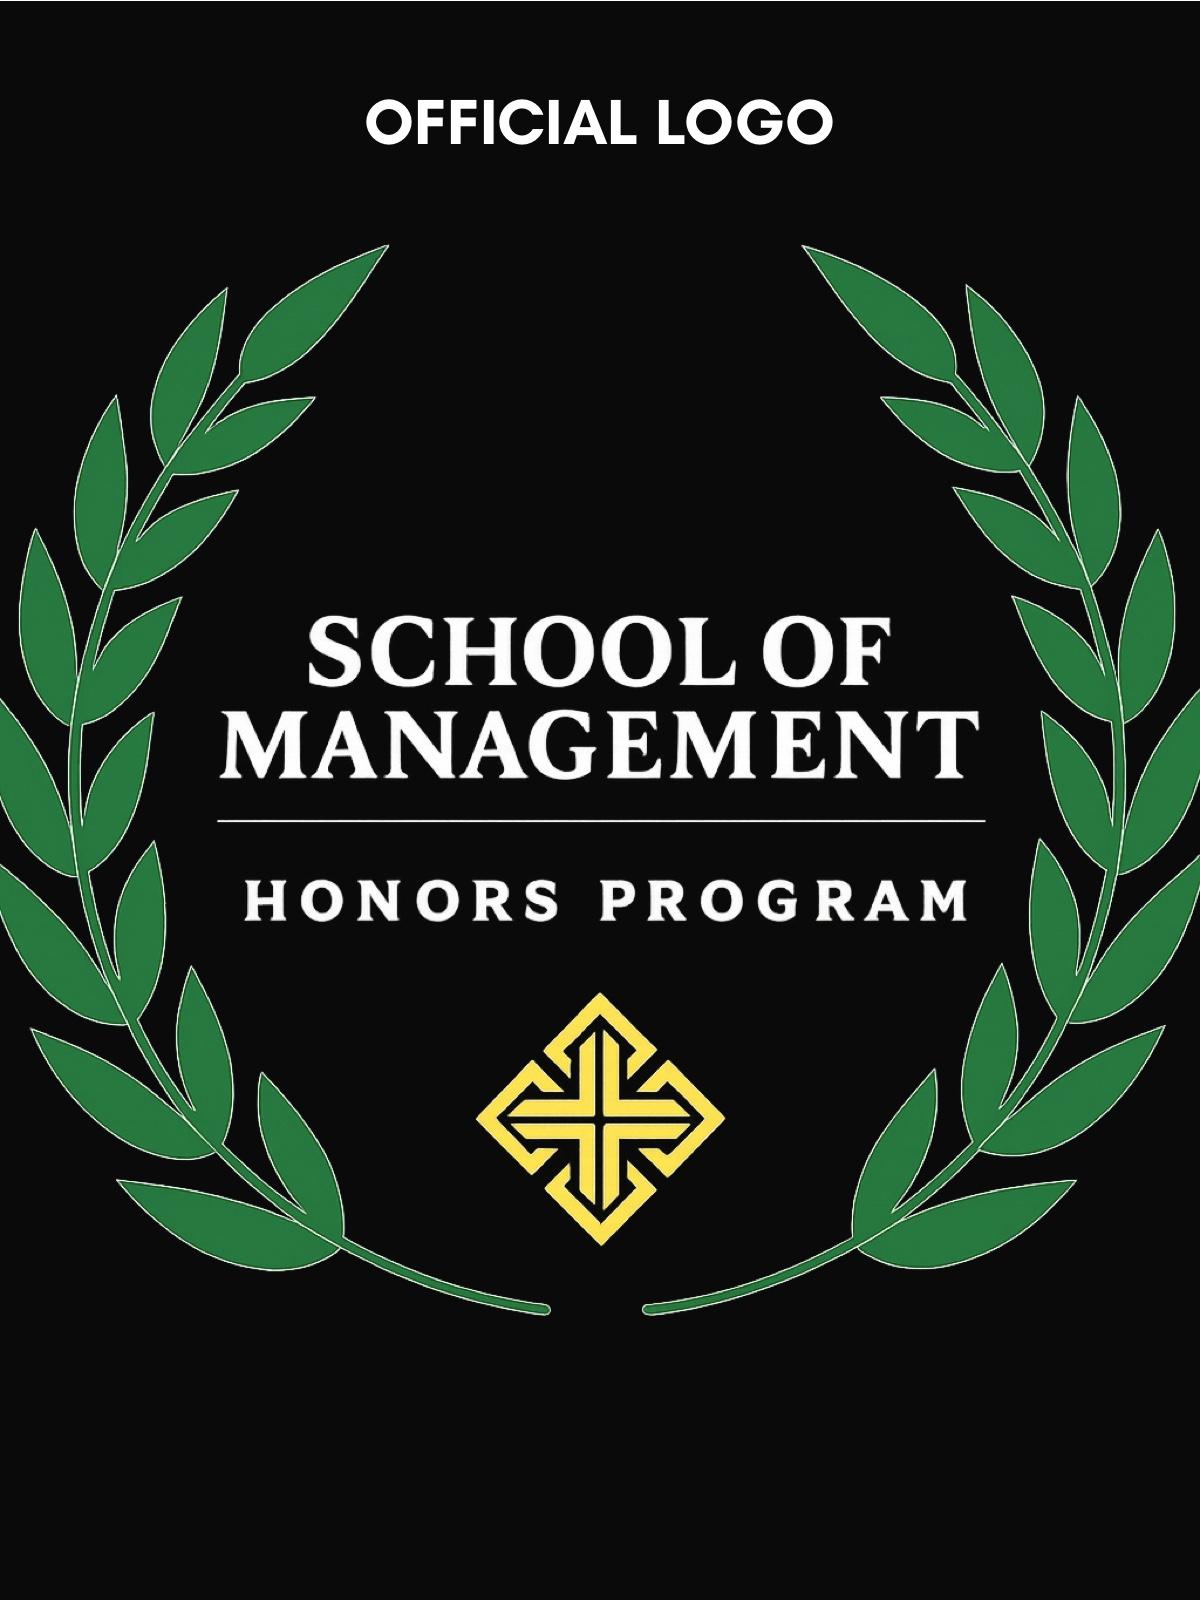
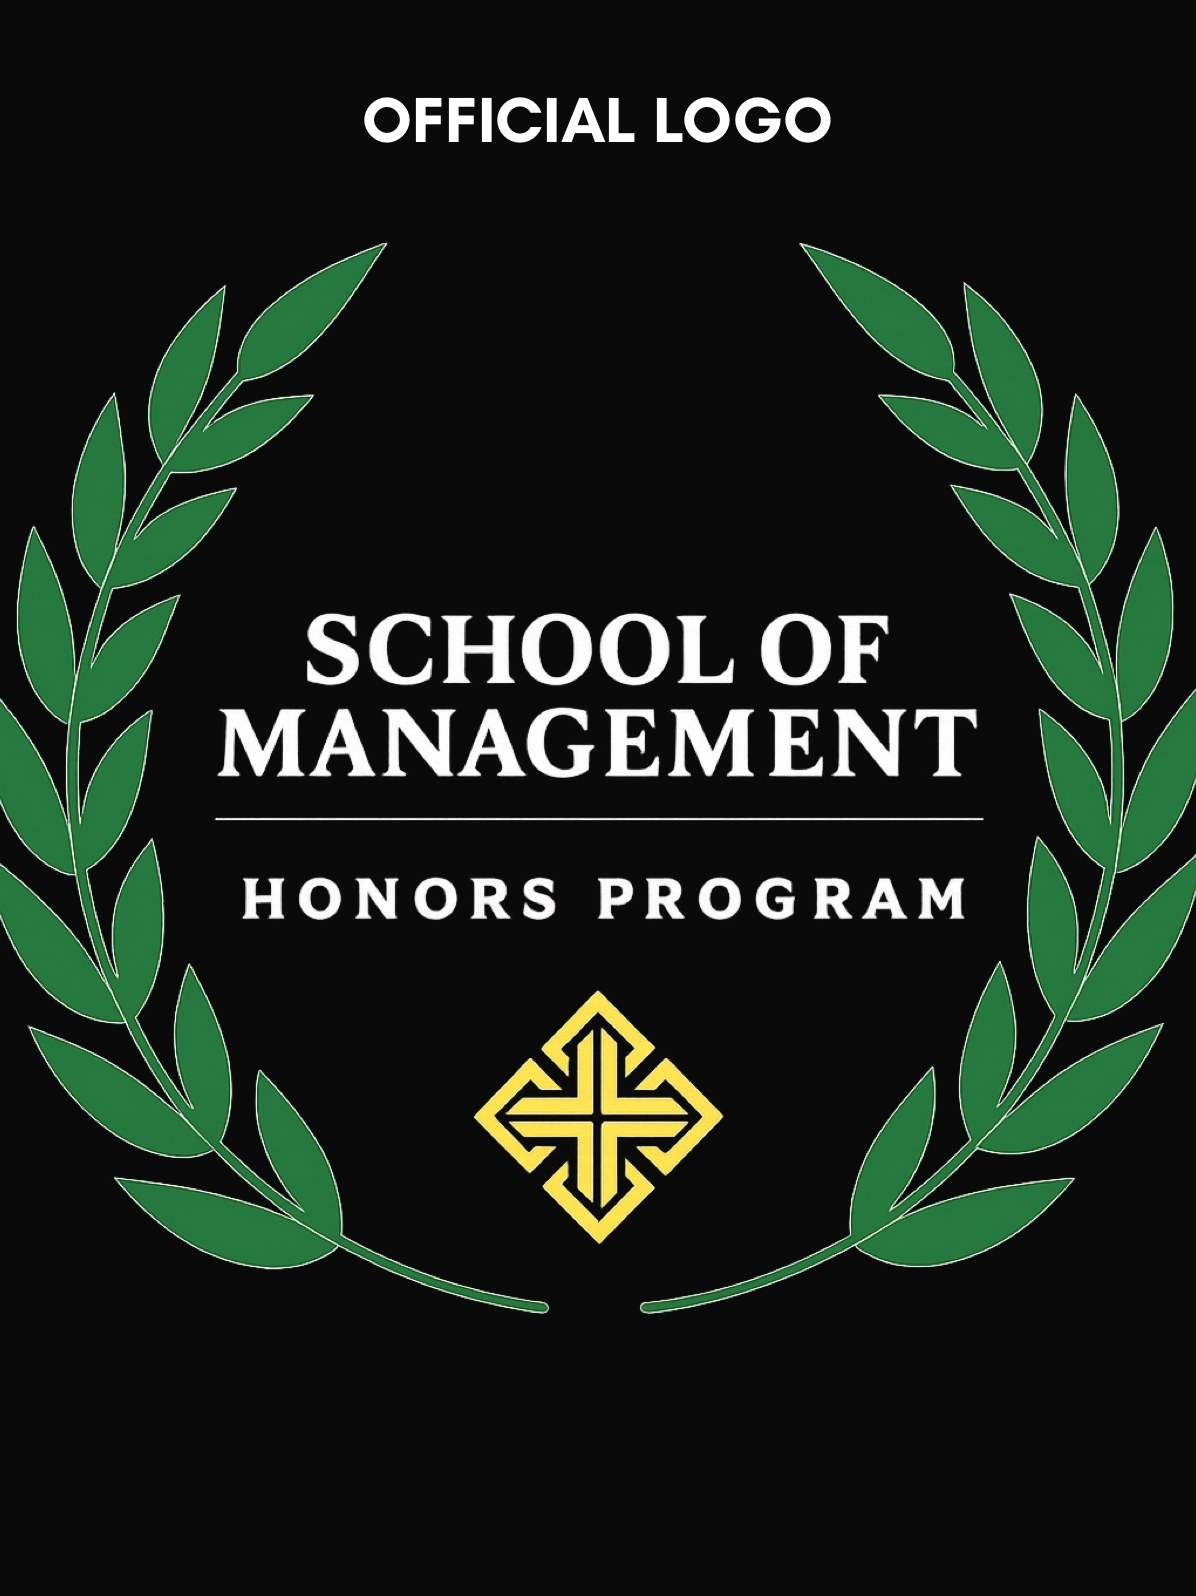
extracurriculars: clean up layout rhythm
- cropped 2px off each edge of the SOM honors cover; removes the 1px white top border artifact from the ql thumbnail
- added .portfolio__spread-image--compact modifier (caps landscape covers at 480px, centered) and applied it to the SOMHP brochure so the last row doesn't crowd the contact section
- gave .portfolio__spread a consistent clamp(40-64px) bottom margin so the gap between the last project and the contact divider is uniform across all subpages

diff --git a/portfolio-community.html b/portfolio-community.html
@@ -64,7 +64,7 @@
 
       <div class="portfolio__spread-row">
         <button class="portfolio__spread-video portfolio__spread-image portfolio__spread-image--portrait" type="button" data-project="som-honors-brand" aria-label="Open School of Management Honors Program logo and merch project">
-          <img src="/project-som-honors-brand.jpg" alt="School of Management Honors Program official logo" loading="lazy" width="1200" height="1600">
+          <img src="/project-som-honors-brand.jpg" alt="School of Management Honors Program official logo" loading="lazy" width="1196" height="1596">
         </button>
         <div class="portfolio__spread-text">
           <p class="portfolio__spread-type">Logo &amp; merch design &middot; 2026</p>
@@ -77,7 +77,7 @@
       </div>
 
       <div class="portfolio__spread-row portfolio__spread-row--flip">
-        <button class="portfolio__spread-video portfolio__spread-image" type="button" data-project="somhp-brochure" aria-label="Open SOMHP Brochure project">
+        <button class="portfolio__spread-video portfolio__spread-image portfolio__spread-image--compact" type="button" data-project="somhp-brochure" aria-label="Open SOMHP Brochure project">
           <img src="/project-somhp-brochure.jpg" alt="SOMHP brochure cover" loading="lazy" width="1600" height="1236">
         </button>
         <div class="portfolio__spread-text">

diff --git a/styles.css b/styles.css
@@ -2161,6 +2161,7 @@ em { font-style: italic; }
   padding-inline: clamp(var(--space-3), 3vw, var(--space-8));
   max-width: 1500px;
   margin-inline: auto;
+  margin-block-end: clamp(var(--space-10), 7vw, var(--space-16));
 }
 
 .portfolio__spread-row {
@@ -2666,6 +2667,20 @@ em { font-style: italic; }
 }
 .portfolio__spread-image--portrait img {
   max-width: 320px;
+  width: 100%;
+  height: auto;
+  margin: 0 auto;
+  display: inline-block;
+}
+
+/* Compact modifier for landscape covers that otherwise fill the column
+   edge-to-edge; useful when a project sits last in a spread so the row
+   doesn't crowd the contact section below. */
+.portfolio__spread-image--compact {
+  text-align: center;
+}
+.portfolio__spread-image--compact img {
+  max-width: 480px;
   width: 100%;
   height: auto;
   margin: 0 auto;
